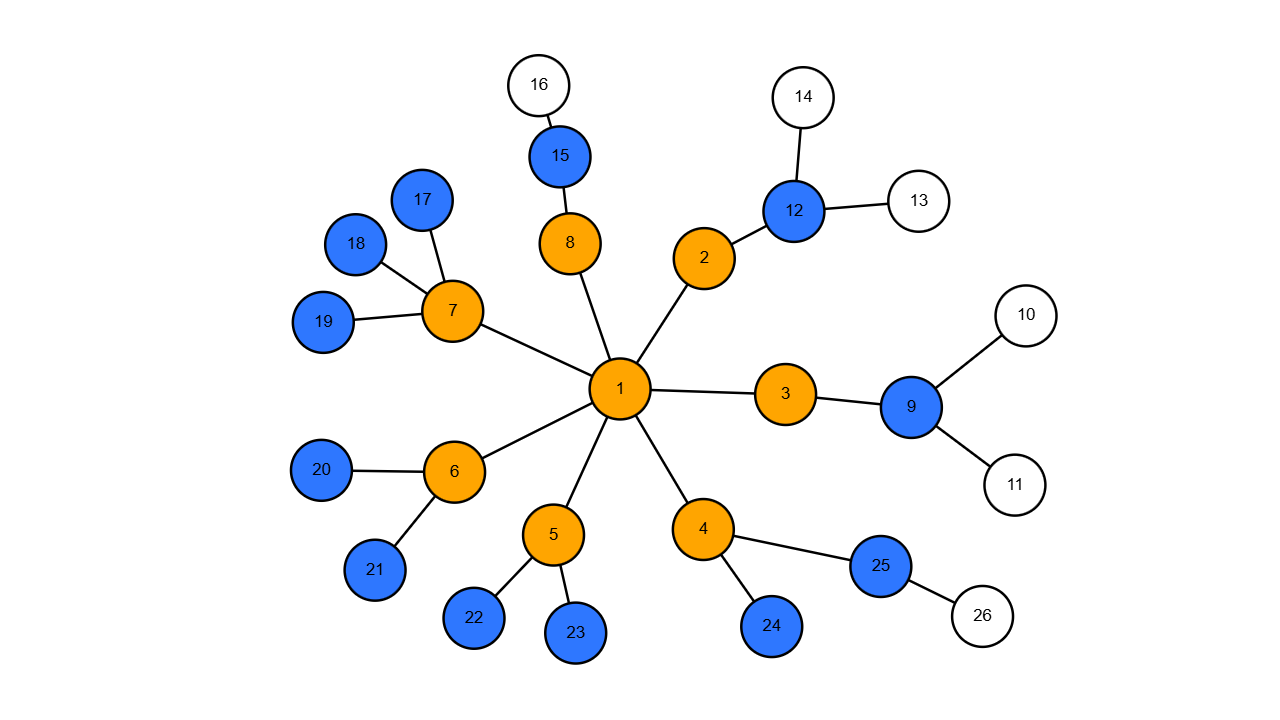
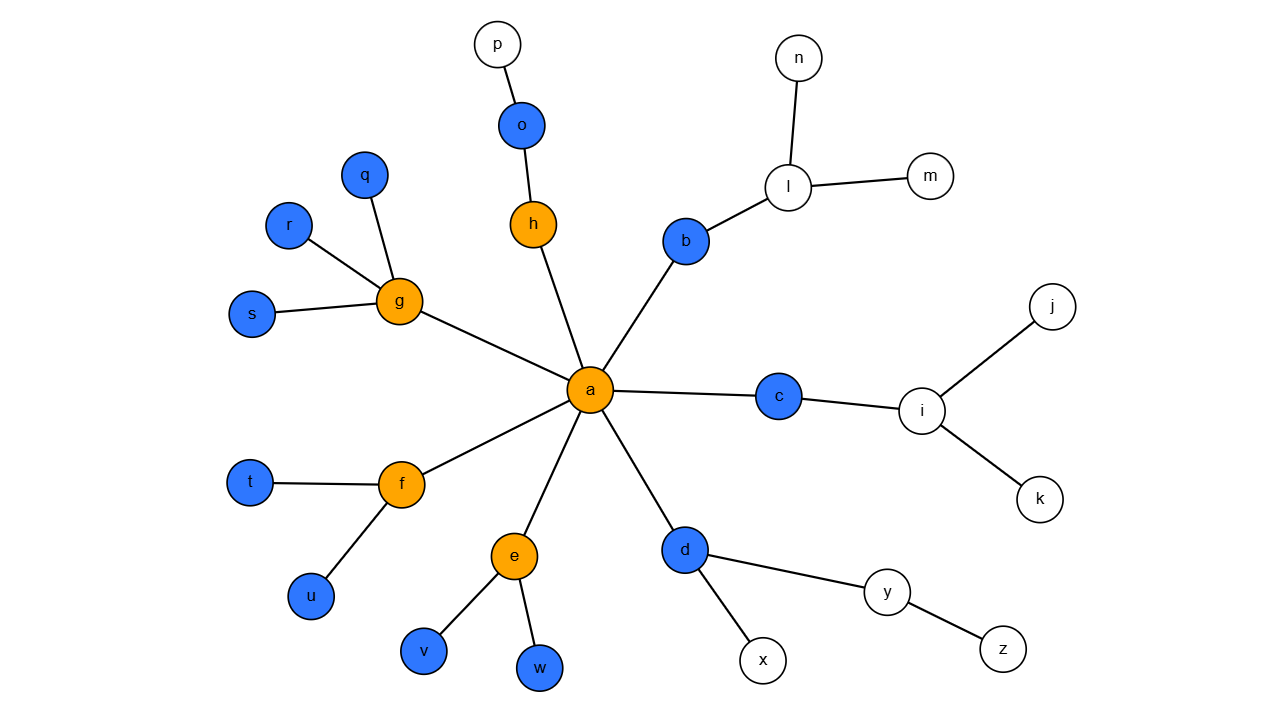
refactor: ui change

diff --git a/src/core/algorithms/a_star/AStarAlgorithm.ts b/src/core/algorithms/a_star/AStarAlgorithm.ts
@@ -95,7 +95,7 @@ export default class AStar extends Algorithm{
 
                     previousNode.set(neighbourId, currentElement.id);
 
-                    currentState = this.updateNodeLabel(currentState, neighbourId, `${this._graph.getNode(neighbourId)!.label}(${gThroughCurrent + neighbourHeusristic})`);    
+                    currentState = this.updateNodeLabel(currentState, neighbourId, `${this._graph.getNode(neighbourId)!.label}:${gThroughCurrent + neighbourHeusristic}`);    
                     currentState.algorithmInfobox = {
                         information: `distance through current node < current smallest distance to neighbour<br> (${gThroughCurrent} < ${gScoreNeighbor == Infinity ? "∞": gScoreNeighbor})
                         <br>update the value held by the node to the new f(x) = g(x) + h(x)
@@ -187,7 +187,7 @@ export default class AStar extends Algorithm{
         const state:animationState = {graph: this._graph.clone()};
         
         state.graph.nodes.forEach((node) => {
-            node.label = node.id === from ? node.label : `${node.label}(∞)`;
+            node.label = node.id === from ? node.label : `${node.label}: ∞`;
         });
 
         return state;
@@ -198,7 +198,7 @@ export default class AStar extends Algorithm{
         }
     }
     private measureDistance(nodeA: Node, nodeB: Node, scale: number):number{
-        return Math.floor(nodeA.position.subtract(nodeB.position).length / (10 * scale));
+        return Math.round(nodeA.position.subtract(nodeB.position).length / (40 * scale));
     }
     private getLabelsForQueueRepresentation(ids: number[]):string[]{
         return ids.map(id => this._graph.getNode(id)!.label);

diff --git a/src/core/algorithms/dijkstra/DijkstraAlgorithm.ts b/src/core/algorithms/dijkstra/DijkstraAlgorithm.ts
@@ -74,7 +74,7 @@ export default class Dijkstra extends Algorithm{
                     
                     if (distanceThroughCurrentNode < estimatedDistance) {
                         previousNode.set(neighbourId, currentNode.id);
-                        currentState = this.updateNodeLabel(currentState, neighbourId, `${this._graph.getNode(neighbourId)!.label}(${distanceThroughCurrentNode})`)
+                        currentState = this.updateNodeLabel(currentState, neighbourId, `${this._graph.getNode(neighbourId)!.label}:${distanceThroughCurrentNode}`)
                         currentState.algorithmInfobox = {
                             information: `distance through current node < current smallest distance to neighbour (${distanceThroughCurrentNode} < ${estimatedDistance == Infinity ? "∞": estimatedDistance})`,
                             dataStructure: {
@@ -146,7 +146,7 @@ export default class Dijkstra extends Algorithm{
         const state:animationState = {graph: this._graph.clone()};
         
         state.graph.nodes.forEach((node) => {
-            node.label = node.id === from ? node.label : `${node.label}(∞)`;
+            node.label = node.id === from ? node.label : `${node.label}:∞`;
         });
 
         return state;

diff --git a/src/core/algorithms/bellmanford/BellmanFordAlgorithm.ts b/src/core/algorithms/bellmanford/BellmanFordAlgorithm.ts
@@ -96,7 +96,7 @@ export default class BellmanFord extends Algorithm{
                     }
                     animationStates.push(currentState);
                     if(distanceThroughFrom < currentEstimate.get(to)!){
-                        currentState = this.updateNodeLabel(currentState, to, `${this._graph.getNode(to)!.label}(${distanceThroughFrom})`)
+                        currentState = this.updateNodeLabel(currentState, to, `${this._graph.getNode(to)!.label}:${distanceThroughFrom}`)
                         currentState.algorithmInfobox = {
                             information: `it holds: (${distanceThroughFrom} < ${currentEstimate.get(to)! == Infinity ? "∞": currentEstimate.get(to)!})
                             <hr>d[u] + w(e) < d[v]`
@@ -162,7 +162,7 @@ export default class BellmanFord extends Algorithm{
         const state:animationState = {graph: this._graph.clone()};
         
         state.graph.nodes.forEach((node) => {
-            node.label = node.id === from ? node.label : `${node.label}(∞)`;
+            node.label = node.id === from ? node.label : `${node.label}:∞`;
         });
 
         return state;

diff --git a/src/core/datastructures/Graph.ts b/src/core/datastructures/Graph.ts
@@ -32,9 +32,21 @@ export default class Graph {
     get nodes(): ReadonlyArray<Node>{
         return Array.from(this._nodes.values());
     }
+    private createNodeLabel(labelIndex: number): string {
+        const alphabetSize = 26;
+        const zeroBasedIndex = labelIndex - 1;
+        const letterIndex = zeroBasedIndex % alphabetSize;
+        const cycle = Math.floor(zeroBasedIndex / alphabetSize);
+        const letter = String.fromCharCode(97 + letterIndex);
+
+        if (cycle === 0) {
+            return letter;
+        }
+        return `${letter}${cycle + 1}`;
+    }
     addNode(): number {
         const id = this._nextNodeId;
-        const label = `${this._nextLabel}`;
+        const label = this.createNodeLabel(this._nextLabel);
        
         this._nodes.set(id, new Node(id, label));
        
@@ -46,7 +58,7 @@ export default class Graph {
         if(id >= this._nextNodeId){
             this._nextNodeId = id + 1;
         }
-        const label = `${this._nextLabel}`;
+        const label = this.createNodeLabel(this._nextLabel);
         const node = new Node(id, label);
         
         node.color = color;

diff --git a/src/core/algorithms/prim/PrimAlgorithm.ts b/src/core/algorithms/prim/PrimAlgorithm.ts
@@ -61,7 +61,7 @@ export default class Prim extends Algorithm {
                     if (w < currentCost) {
                         priorityQueue.update(nodeId, w);
                         edgesConnectingNodesToMST.set(nodeId, edgeId);
-                        currentState = this.updateNodeLabel(currentState, nodeId, `${this._graph.getNode(nodeId)!.label}(${w})`);
+                        currentState = this.updateNodeLabel(currentState, nodeId, `${this._graph.getNode(nodeId)!.label}:${w}`);
                         currentState.algorithmInfobox = {
                             information: `We can improve the cost of connecting the adjacent node to the MST.<hr>
                             ${w} < ${currentCost === Infinity ? `∞` : currentCost}`
@@ -109,7 +109,7 @@ export default class Prim extends Algorithm {
         const state:animationState = {graph: this._graph.clone()};
 
         state.graph.nodes.forEach((node) => {
-            node.label = node.id === from ? node.label : `${node.label}(∞)`;
+            node.label = node.id === from ? node.label : `${node.label}:∞`;
         });
 
         return state;

diff --git a/src/core/network/Network.ts b/src/core/network/Network.ts
@@ -10,7 +10,7 @@ export default class Network{
     private readonly _ctx = canvas.getContext("2d")!;
     private readonly _negativeEdges: boolean;
     private readonly _euclideanWeights: boolean;
-    private readonly _fontSize = 17;
+    private readonly _fontSize = 15;
     private readonly _edgeWidth = 2;
     private _graph: Graph;
     private _isDown = false;
@@ -600,7 +600,7 @@ export default class Network{
         this.drawCanvas();
     };
     private calculateEuclideanWeight(from: Vector, to: Vector): number {
-        return Math.floor(from.subtract(to).length / (10 * this._scale));
+        return Math.round(from.subtract(to).length / (40 * this._scale));
     }
     private resizeHandler = ():void =>{
         const editingPanelRect = editingPanel!.getBoundingClientRect();

diff --git a/src/core/algorithms/topological_sort/TopologicalSortAlgorithm.ts b/src/core/algorithms/topological_sort/TopologicalSortAlgorithm.ts
@@ -162,7 +162,7 @@ export default class TopologicalSort extends Algorithm{
                 currentState = this.markEdgeAsDeselected(currentState, edgeId);
             }
             currentState = this.markNodeAsDeselected(currentState, currentNodeId);
-            currentState = this.updateNodeLabel(currentState, currentNodeId, `${this._graph.getNode(currentNodeId)!.label}(${topologicalOrder})`)
+            currentState = this.updateNodeLabel(currentState, currentNodeId, `${this._graph.getNode(currentNodeId)!.label}:${topologicalOrder}`)
             animationStates.push(currentState);
         }
         currentState = this.copyAnimationState(currentState);

diff --git a/src/core/datastructures/Node.ts b/src/core/datastructures/Node.ts
@@ -7,8 +7,8 @@ export default class Node {
     private _label: string;
     private _Position = new Vector(0, 0);
     private _color = "white";
-    private _size = 27;
-    private _nodeBorderWidth = 4;
+    private _size = 20;
+    private _nodeBorderWidth = 3;
 
     constructor(id: number, label: string) {
         this._originalLabel = label;
